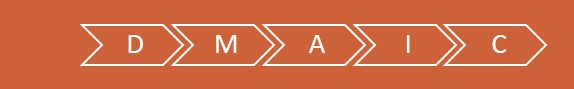
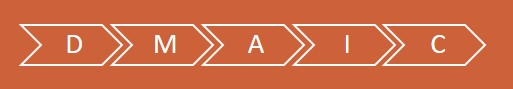
Enhance: improved layout of infographics on services.html and index.html

diff --git a/methods.html b/methods.html
@@ -91,59 +91,59 @@
             <div class="accordion row" id="accordionExample">
                 <div class="d-none d-xl-inline">
                     <div id="collapseOne" class="collapse" aria-labelledby="headingOne" data-parent="#accordionExample">
-                        <div class="textlarge content">
+                        <div class="contenttextlarge content">
                             LEAN follows 5 principles: Value, Value Stream, Flow, Pull & Perfect(ion).
                         </div>
                         <div class="row">
-                            <div class="col-8 textxsmall content align-vertically">
+                            <div class="col-7 contenttextxsmall content align-vertically">
                                 LEAN is often focussed on Efficiency - how much effort it takes to complete a task, 
                                     product, project etc.<br>And how much of that effort is useful (Value) versus 
                                         how much is unnecessary (Waste).
                             </div>
-                            <div class="col-4 mt-auto mb-auto">
+                            <div class="col-5 mt-auto mb-auto">
                                 <img class="d-inline contentimage" src="assets/images/lean-white.jpg" alt="lean principles" >
                             </div>
                         </div>
-                        <div class="textsmall content">
+                        <div class="contenttextsmall content">
                             Various tools, such as: Value Stream Mapping, The 8 Wastes, Visual Management etc. 
                             help to identify and eliminate Waste.
                         </div>
                     </div>
                     <div id="collapseTwo" class="collapse" aria-labelledby="headingTwo" data-parent="#accordionExample">
-                        <div class="textlarge content">
+                        <div class="contenttextlarge content">
                             6 SIGMA is a framework for reducing the amount of variation in a process.
                         </div>
                         <div class="row">
-                            <div class="col-8 textxsmall content align-vertically">
+                            <div class="col-7 contenttextxsmall content align-vertically">
                                 6 SIGMA can be focussed on how Accurate and Predictable a task, product or process is, 
                                     and could be.
                             </div>
-                            <div class="col-4 mt-auto mb-auto">
+                            <div class="col-5 mt-auto mb-auto">
                                 <img class="d-inline contentimage" src="assets/images/dmaic-white.jpg" alt="six sigma" >
                             </div>
                         </div>
-                        <div class="textsmall content">
+                        <div class="contenttextsmall content">
                             The framework DMAIC (Define, Measure, Analyse, Improve, Control) gives a structure to 
                                 understanding the causes of variation. Tools such as: Run Charts, Capability 
                                     Charts and Statistical Process Control are used.
                         </div>
                     </div>
                     <div id="collapseThree" class="collapse" aria-labelledby="headingThree" data-parent="#accordionExample">
-                        <div class="textlarge content">
+                        <div class="contenttextlarge content">
                             OPEX is a structured approach; working through: the Purpose, Measures 
                                 and Methods of an: Organisation, Function or Process.
                         </div>
                         <div class="row">
-                            <div class="col-8 textxsmall content align-vertically">
+                            <div class="col-7 contenttextxsmall content align-vertically">
                                 OPEX takes a group of people though a layered set of tools that provide visibility and 
                                     capability across the 3 lenses of: Purpose, Measures & Methods. It is a 'hands-on' 
                                         approach that requires participation across all levels in the business.
                             </div>
-                            <div class="col-4 mt-auto mb-auto">
-                                <img class="d-inline contentimage" src="assets/images/pdca-white.jpg" alt="plan do check act" >
+                            <div class="col-5 mt-auto mb-auto">
+                                <img class="d-inline contentimage ml-auto mr-auto" src="assets/images/pdca-white.jpg" alt="plan do check act" >
                             </div>
                         </div>
-                        <div class="textsmall content">
+                        <div class="contenttextsmall content">
                             You would expect to see: Team Huddles, Huddle-Boards, KPIs and A3 Problem-Solving templates.
                         </div>
                     </div>
@@ -157,20 +157,18 @@
                         </h5>
                     </div>
                     <div id="collapseOne" class="collapse d-xl-none" aria-labelledby="headingOne" data-parent="#accordionExample">
-                        <div class="textlarge content">
+                        <div class="contenttextlarge content">
                             LEAN follows 5 principles: Value, Value Stream, Flow, Pull & Perfect(ion).
                         </div>
-                        <div class="row">
-                            <div class="col-8 textxsmall content align-vertically">
-                                LEAN is often focussed on Efficiency - how much effort it takes to complete a task, 
-                                    product, project etc.<br>And how much of that effort is useful (Value) versus 
-                                        how much is unnecessary (Waste).
-                            </div>
-                            <div class="col-4 mt-auto mb-auto">
-                                <img class="d-inline contentimage" src="assets/images/lean-white.jpg" alt="lean principles" >
-                            </div>
+                        <div class="mt-auto mb-auto">
+                            <img class="d-inline contentimage" src="assets/images/lean-white.jpg" alt="lean principles" >
                         </div>
-                        <div class="textsmall content">
+                        <div class="contenttextxsmall content align-vertically">
+                            LEAN is often focussed on Efficiency - how much effort it takes to complete a task, 
+                                product, project etc.<br>And how much of that effort is useful (Value) versus 
+                                    how much is unnecessary (Waste).
+                        </div>
+                        <div class="contenttextsmall content">
                             Various tools, such as: Value Stream Mapping, The 8 Wastes, Visual Management etc. 
                             help to identify and eliminate Waste.
                         </div>
@@ -185,19 +183,17 @@
                         </h5>
                     </div>
                     <div id="collapseTwo" class="collapse d-xl-none" aria-labelledby="headingTwo" data-parent="#accordionExample">
-                        <div class="textlarge content">
+                        <div class="contenttextlarge content">
                             6 SIGMA is a framework for reducing the amount of variation in a process.
                         </div>
-                        <div class="row">
-                            <div class="col-8 textxsmall content align-vertically">
-                                6 SIGMA can be focussed on how Accurate and Predictable a task, product or process is, 
-                                    and could be.
-                            </div>
-                            <div class="col-4 mt-auto mb-auto">
-                                <img class="d-inline contentimage" src="assets/images/dmaic-white.jpg" alt="six sigma" >
-                            </div>
+                        <div class="mt-auto mb-auto">
+                            <img class="d-inline contentimage" src="assets/images/dmaic-white.jpg" alt="six sigma" >
                         </div>
-                        <div class="textsmall content">
+                        <div class="contenttextxsmall content align-vertically">
+                            6 SIGMA can be focussed on how Accurate and Predictable a task, product or process is, 
+                                and could be.
+                        </div>
+                        <div class="contenttextsmall content">
                             The framework DMAIC (Define, Measure, Analyse, Improve, Control) gives a structure to 
                                 understanding the causes of variation. Tools such as: Run Charts, Capability 
                                     Charts and Statistical Process Control are used.
@@ -213,24 +209,21 @@
                         </h5>
                     </div>
                     <div id="collapseThree" class="collapse d-xl-none" aria-labelledby="headingThree" data-parent="#accordionExample">
-                        <div class="textlarge content">
+                        <div class="contenttextlarge content">
                             OPEX is a structured approach; working through: the Purpose, Measures 
                                 and Methods of an: Organisation, Function or Process.
                         </div>
-                        <div class="row">
-                            <div class="col-8 textxsmall content align-vertically">
-                                OPEX takes a group of people though a layered set of tools that provide visibility and 
-                                    capability across the 3 lenses of: Purpose, Measures & Methods. It is a 'hands-on' 
-                                        approach that requires participation across all levels in the business.
-                            </div>
-                            <div class="col-4 mt-auto mb-auto">
-                                <img class="d-inline contentimage" src="assets/images/pdca-white.jpg" alt="plan do check act" >
-                            </div>
+                        <div class="mt-auto mb-auto">
+                            <img class="d-inline contentimage" src="assets/images/pdca-white.jpg" alt="plan do check act" >
                         </div>
-                        <div class="textsmall content">
+                        <div class="contenttextxsmall content align-vertically">
+                            OPEX takes a group of people though a layered set of tools that provide visibility and 
+                                capability across the 3 lenses of: Purpose, Measures & Methods. It is a 'hands-on' 
+                                    approach that requires participation across all levels in the business.
+                        </div>
+                        <div class="contenttextsmall content">
                             You would expect to see: Team Huddles, Huddle-Boards, KPIs and A3 Problem-Solving templates.
                         </div>
-                    </div>
                     </div>
                 </div>
             </div>
@@ -240,6 +233,7 @@
             <span class="ml-1 float-left">Company Number: 11942205</span>
             <span class="mr-1 float-right">VAT Number: 321292435</span>
         </div>
+    </footer>
 
     <!--Bootstrap scripts-->    
     <script src="https://code.jquery.com/jquery-3.3.1.slim.min.js" integrity="sha384-q8i/X+965DzO0rT7abK41JStQIAqVgRVzpbzo5smXKp4YfRvH+8abtTE1Pi6jizo" crossorigin="anonymous">

diff --git a/assets/css/style.css b/assets/css/style.css
@@ -114,7 +114,7 @@ nav div a:hover {
 
 .textsmall {
     padding: 6vw 8vw;
-    font-size: calc(10px + (48 - 10) * ((100vw - 300px) / (1366 - 300)));
+    font-size: calc(14px + (48 - 14) * ((100vw - 300px) / (1366 - 300)));
     color: #000000;
     text-align: center;
 }
@@ -127,23 +127,25 @@ nav div a:hover {
 
 .textmedium {   
     padding: 2vw 10vw 6vw;
-    font-size: calc(12px + (58 - 12) * ((100vw - 300px) / (1366 - 300)));
+    font-size: calc(18px + (58 - 18) * ((100vw - 300px) / (1366 - 300)));
     color: #101828;
 }
 
 .textxmedium {   
     padding: 2vw 10vw;
-    font-size: calc(12px + (58 - 12) * ((100vw - 300px) / (1366 - 300)));
+    font-size: calc(16px + (58 - 16) * ((100vw - 300px) / (1366 - 300)));
     color: #101828;
 }
 
 .textlarge {
-    padding: 8vw 6vw;
+    padding: 8vw 8vw;
     text-align: center;
-    font-size: calc(14px + (68 - 14) * ((100vw - 300px) / (1366 - 300)));
+    font-size: calc(26px + (68 - 26) * ((100vw - 300px) / (1366 - 300)));
     font-weight: bold;
     color: #CC613A;
 }
+
+/* ------------------- Banner Section Styling */
 
 #bannersection {
     text-align: center;
@@ -157,7 +159,6 @@ nav div a:hover {
 .banner {
     padding: 0;
     font-size: calc(17px + (48 - 17) * ((100vw - 300px) / (1366 - 300)));
-    font-weight: bold;
     color: #ffffff;
     min-height: calc(80px + (200 - 80) * ((100vw - 300px) / (1366 - 300)));
     background-color: #CC613A;
@@ -169,9 +170,9 @@ nav div a:hover {
     justify-content: center;
 }
 
-img {
-    max-height: 100px;
-    max-width: 250px;
+.bannerimage {
+    max-height: calc(80px + (200 - 80) * ((100vw - 300px) / (1366 - 300)));
+    max-width: 60vw;
     border: 1px solid transparent;
 }
 
@@ -214,9 +215,30 @@ img {
     padding: 2vw;
 }
 
+.contenttextsmall {
+    padding: 6vw 8vw;
+    font-size: calc(14px + (48 - 14) * ((100vw - 300px) / (1366 - 300)));
+    color: #101828;
+    text-align: center;
+}
+
+.contenttextxsmall {
+    padding: 4vw 8vw 2vw;
+    font-size: calc(14px + (36 - 14) * ((100vw - 300px) / (1366 - 300)));
+    color: #000000;
+}
+
+.contenttextlarge {
+    padding: 4vw 6vw;
+    text-align: center;
+    font-size: calc(16px + (68 - 16) * ((100vw - 300px) / (1366 - 300)));
+    font-weight: bold;
+    color: #CC613A;
+}
+
 .contentimage {
-    max-height: 100%;
-    max-width: 100%;
+    max-height: 30vw;
+    max-width: 50vw;
 }
 
 /* ------------------- Footer Styling */
@@ -237,7 +259,8 @@ img {
     }
 
     .mailicon {
-        font-size: 35px;
+        font-size: 28px;
+        padding-right: 3vw;
     }
 }
 
@@ -290,6 +313,11 @@ img {
         font-size: 30px;
     }
 
+    .bannerimage {
+        max-height: calc(80px + (200 - 80) * ((100vw - 300px) / (1366 - 300)));
+        max-width: 30vw;
+    }
+
     .headingCenterLeft {
         border-left: 4px solid white;
         border-right: 2px solid white;
@@ -316,6 +344,32 @@ img {
 
     .btn-link:focus {
         color: rgba(255,255,255,.5)
+    }
+
+    .contenttextsmall {
+        padding: 2vw 8vw 4vw;
+        font-size: calc(26px + (32 - 26) * ((100vw - 1200px) / (1800 - 300)));
+        color: #101828;
+        text-align: center;
+    }
+
+    .contenttextxsmall {
+        padding: 4vw 8vw 2vw;
+        font-size: calc(28px + (36 - 28) * ((100vw - 1200px) / (1800 - 300)));
+        color: #000000;
+    }
+
+    .contenttextlarge {
+        padding: 4vw 6vw 2vw;
+        text-align: center;
+        font-size: calc(34px + (42 - 34) * ((100vw - 1200px) / (1800 - 300)));
+        font-weight: bold;
+        color: #CC613A;
+    }
+
+    .contentimage {
+        max-height: 30vw;
+        max-width: 30vw;
     }
 
 }

diff --git a/index.html b/index.html
@@ -91,17 +91,14 @@
     <!--Banner Section-->
     <section id="bannersection"
         <div class="row" id="bannerouter">
-            <div class="col-xl-4 banner align-vertically">
-                <p>LEAN</p>
-                <img class="d-none d-md-inline" src="assets/images/lean.jpg" alt="lean principles" >
+            <div class="col-xl-4 mb-1 banner align-vertically">
+                <img class="bannerimage" src="assets/images/lean.jpg" alt="lean principles" >
             </div>
-            <div class="col-xl-4 headingCenter banner align-vertically">
-                <p>6 SIGMA</p>
-                <img class="d-none d-md-inline" src="assets/images/dmaic.jpg" alt="six sigma" >
+            <div class="col-xl-4 mb-1 banner align-vertically headingCenter">
+                <img class="bannerimage" src="assets/images/dmaic.jpg" alt="six sigma" >
             </div>
-            <div class="col-xl-4 banner align-vertically ml-auto">
-                <p>OPERATIONAL EXCELLENCE</p>
-                <img class="d-none d-md-inline" src="assets/images/pdca.jpg" alt="plan do check act" >
+            <div class="col-xl-4 mb-1 banner align-vertically">
+                <img class="bannerimage" src="assets/images/pdca.jpg" alt="plan do check act" >
             </div>
         </div>
     </section>
@@ -111,6 +108,7 @@
             <span class="ml-1 float-left">Company Number: 11942205</span>
             <span class="mr-1 float-right">VAT Number: 321292435</span>
         </div>
+    </footer>
 
     <!--Bootstrap scripts-->    
     <script src="https://code.jquery.com/jquery-3.3.1.slim.min.js" integrity="sha384-q8i/X+965DzO0rT7abK41JStQIAqVgRVzpbzo5smXKp4YfRvH+8abtTE1Pi6jizo" crossorigin="anonymous">

diff --git a/services.html b/services.html
@@ -188,6 +188,7 @@
             <span class="ml-1 float-left">Company Number: 11942205</span>
             <span class="mr-1 float-right">VAT Number: 321292435</span>
         </div>
+    </footer>
 
     <!--Bootstrap scripts-->    
     <script src="https://code.jquery.com/jquery-3.3.1.slim.min.js" integrity="sha384-q8i/X+965DzO0rT7abK41JStQIAqVgRVzpbzo5smXKp4YfRvH+8abtTE1Pi6jizo" crossorigin="anonymous">
